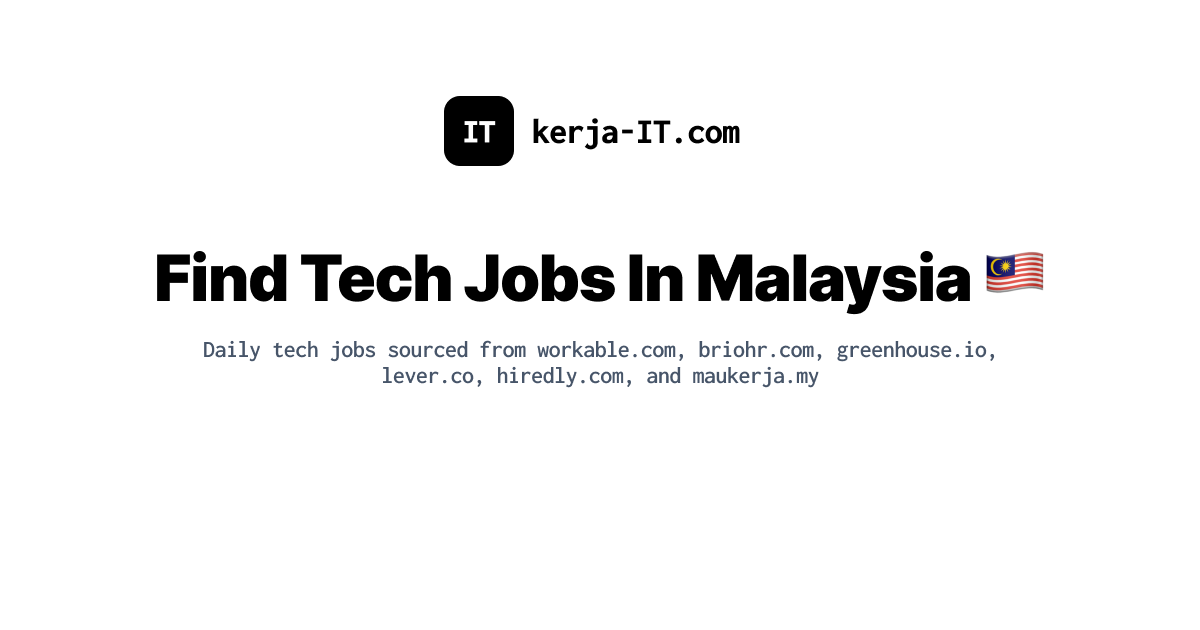
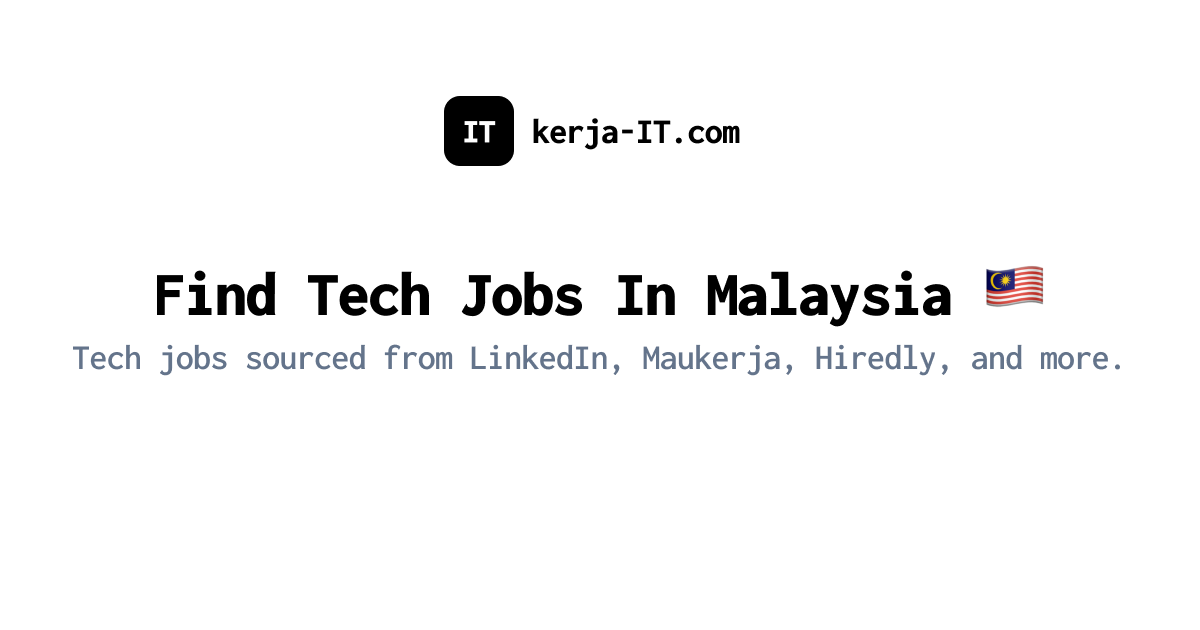
view: update og image for homepage and talents

Changed region(s): [[0.1233, 0.3921, 0.8942, 0.5127], [0.0617, 0.5429, 0.925, 0.6333]]

diff --git a/pages/talents/index.js b/pages/talents/index.js
@@ -39,7 +39,7 @@ function Talents({ devs }) {
         <meta name="description" content={siteDescription} />
         <meta property="og:title" content={title} />
         <meta property="og:description" content={siteDescription} />
-        <meta property="og:image" content="https://kerja-it.com/og.png" />
+        <meta property="og:image" content="https://kerja-it.com/talents.png" />
         <meta property="og:url" content="https://kerja-it.com/talents" />
         <meta property="og:site_name" content="Talents | Kerja IT" />
         <meta name="twitter:card" content="summary_large_image" />
